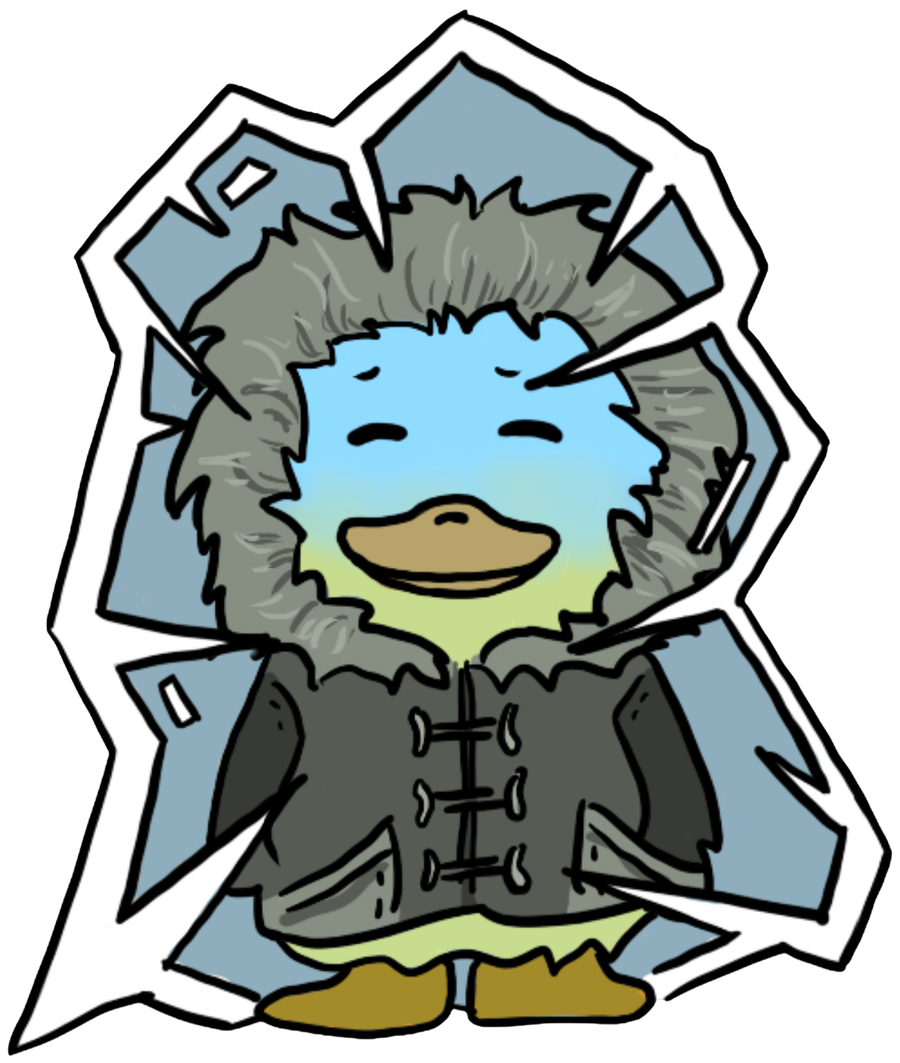
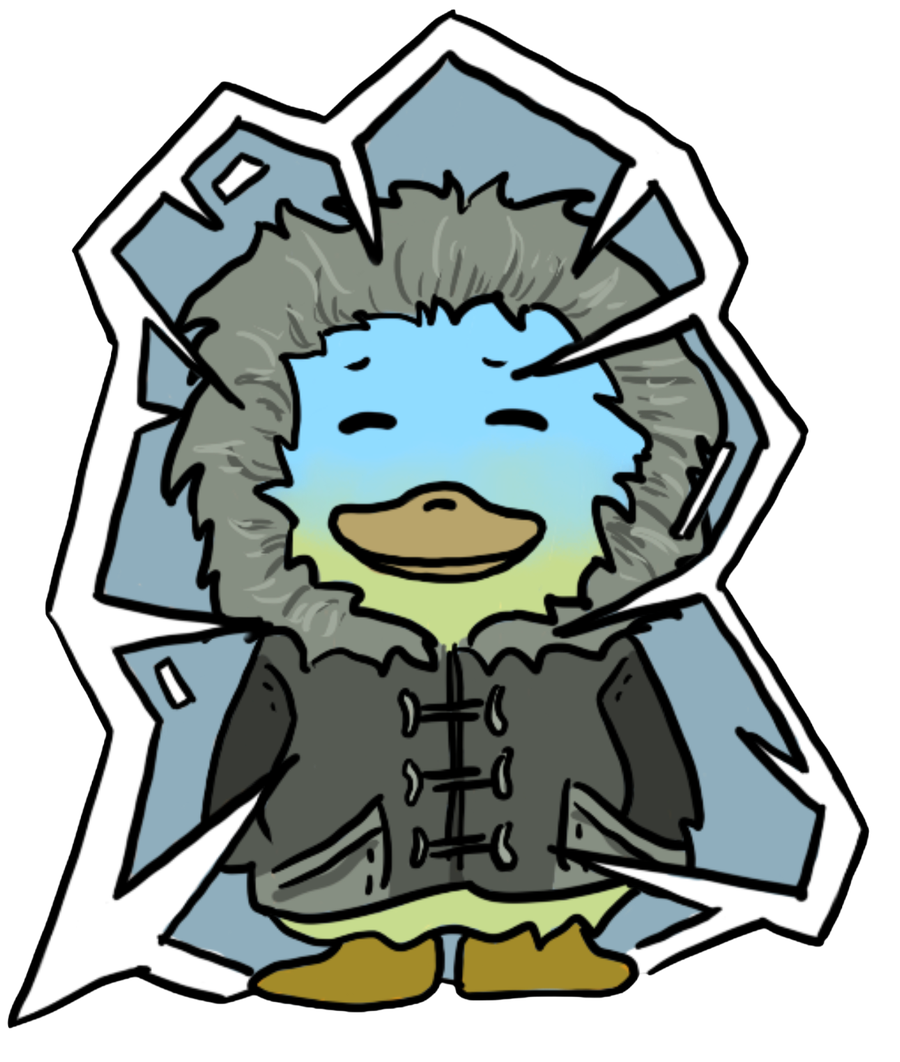
Add ducks for 70-100°F and a rain duck
Every 5°F band now has its own duck, and the umbrella duck shows
whenever it's raining. Web copies are regenerated from the source art
in assets/bbs/ with a crop box wide enough for the umbrella.

diff --git a/ducks.js b/ducks.js
@@ -1,10 +1,11 @@
 // One duck per 5°F band, 0°F through 100°F. Each band covers its starting
 // degree up to (not including) the next one: 55 means 55–59.9°F.
-// Below 0 uses the 0 duck; 100 and above uses the 100 duck.
+// Below 0 uses the 0–5 duck; 95 and above uses the 95–100 duck.
 //
-// `img: null` means that band hasn't been drawn yet. It borrows the nearest
-// drawn duck below it. To add one, save a transparent PNG as
-// assets/ducks/duck-<band>.png and set its `img`.
+// When it's raining, the rain duck shows instead, whatever the temperature.
+//
+// Source art lives in assets/bbs/ (named like 55-60.png); the files here in
+// assets/ducks/ are the cropped, resized web copies (see README).
 
 const duck = (band) => `assets/ducks/duck-${band}.png`;
 
@@ -23,18 +24,23 @@ const DUCKS = {
   55:  { img: duck(55), advice: "beanie + a light scarf" },
   60:  { img: duck(60), advice: "trench coat weather" },
   65:  { img: duck(65), advice: "light jacket's plenty" },
-  70:  { img: null, advice: "t-shirt weather :)" },
-  75:  { img: null, advice: "perfect day for a walk" },
-  80:  { img: null, advice: "shorts & sunnies!" },
-  85:  { img: null, advice: "sunscreen, friend" },
-  90:  { img: null, advice: "drink lots of water!" },
-  95:  { img: null, advice: "find some shade" },
-  100: { img: null, advice: "too hot. pond time." },
+  70:  { img: duck(70), advice: "cardigan + a cute bow" },
+  75:  { img: duck(75), advice: "overalls + sunnies!" },
+  80:  { img: duck(80), advice: "sun hat & breezy clothes" },
+  85:  { img: duck(85), advice: "bandana + shorts!" },
+  90:  { img: duck(90), advice: "tank top. hydrate!" },
+  95:  { img: duck(95), advice: "too hot for a shirt!" },
 };
 
-function duckForTemp(tempF) {
-  const band = Math.min(100, Math.max(0, Math.floor(tempF / 5) * 5));
-  let drawn = band;
-  while (drawn > 0 && !DUCKS[drawn].img) drawn -= 5;
-  return { band, advice: DUCKS[band].advice, img: DUCKS[drawn].img };
+const RAIN_DUCK = { img: "assets/ducks/duck-rain.png", advice: "grab an umbrella!" };
+
+// WMO weather codes: drizzle, rain (incl. freezing), rain showers, thunderstorms.
+function isRaining(code) {
+  return (code >= 51 && code <= 67) || (code >= 80 && code <= 82) || code >= 95;
+}
+
+function pickDuck(tempF, weatherCode) {
+  if (isRaining(weatherCode)) return { key: "rain", ...RAIN_DUCK };
+  const band = Math.min(95, Math.max(0, Math.floor(tempF / 5) * 5));
+  return { key: band, ...DUCKS[band] };
 }

diff --git a/app.js b/app.js
@@ -18,7 +18,7 @@ const state = {
   place: store.get("dw.place") || DEFAULT_PLACE,
   weather: null,
   aqi: null,
-  duckBand: null,
+  duckKey: null,
 };
 
 /* ---------- icons ---------- */
@@ -200,7 +200,7 @@ function render() {
   $("hi").textContent = toUnit(daily.temperature_2m_max[0]);
   $("lo").textContent = toUnit(daily.temperature_2m_min[0]);
   $("date").textContent = `${MONTHS[now.m - 1]} ${now.day}`;
-  renderDuck(current.temperature_2m);
+  renderDuck(current.temperature_2m, current.weather_code);
 
   // cards
   renderDays(daily);
@@ -228,14 +228,14 @@ function render() {
   renderAlerts();
 }
 
-function renderDuck(tempF) {
-  const duck = duckForTemp(tempF);
+function renderDuck(tempF, weatherCode) {
+  const duck = pickDuck(tempF, weatherCode);
   const img = $("duck");
   const bubble = $("advice");
   bubble.textContent = duck.advice;
-  img.alt = `The weather duck, dressed for ${Math.round(tempF)}°F`;
-  if (duck.band === state.duckBand) return;
-  state.duckBand = duck.band;
+  img.alt = duck.key === "rain" ? "The weather duck under an umbrella" : `The weather duck, dressed for ${Math.round(tempF)}°F`;
+  if (duck.key === state.duckKey) return;
+  state.duckKey = duck.key;
   img.src = duck.img;
   // replay entrance animations
   for (const el of [img, bubble]) {

diff --git a/index.html b/index.html
@@ -45,7 +45,7 @@
       <section class="hero">
         <div class="duck-side">
           <div class="bubble" id="advice">wear a hoodie!</div>
-          <img class="duck" id="duck" alt="The weather duck" width="900" height="1063" />
+          <img class="duck" id="duck" alt="The weather duck" width="900" height="1062" />
           <p class="dateline"><span>today</span><span id="date">—</span></p>
         </div>
         <div class="now">

diff --git a/README.md b/README.md
@@ -10,15 +10,19 @@ python3 -m http.server 8642
 
 Then open http://localhost:8642. Use a local server rather than opening the file directly, because the browser only allows location access on `localhost` or HTTPS.
 
-## Adding ducks
+## Ducks
 
-Each 5°F band has its own duck: `assets/ducks/duck-55.png` shows for 55–59.9°F. Bands without a drawing yet borrow the nearest duck below them.
+Each 5°F band has its own duck: `assets/ducks/duck-55.png` shows for 55–59.9°F. When it's raining, `duck-rain.png` shows instead. Speech-bubble text for each duck is in `ducks.js`.
 
-1. Export the duck as a transparent PNG on the same 1640×2360 canvas as the others.
-2. Crop and resize it to match the existing ducks (originals in `~/Downloads/duckweather NEW/`, named like `70-75.png`):
-   ```sh
-   python3 -c "from PIL import Image; Image.open('70-75.png').convert('RGBA').crop((140,263,1427,1783)).resize((900,1063), Image.LANCZOS).save('assets/ducks/duck-70.png', optimize=True)"
-   ```
-3. In `ducks.js`, change that band's `img: null` to `img: duck(70)`. You can also change its speech-bubble `advice` there.
+The full-size source art lives in `assets/bbs/` (named like `55-60.png` and `rain.png`, all on the same 1640×2360 canvas). It's kept out of git. To regenerate the web copies after changing a drawing:
+
+```sh
+python3 -c "
+from PIL import Image
+for b in range(0, 100, 5):
+    Image.open(f'assets/bbs/{b}-{b+5}.png').convert('RGBA').crop((140,263,1461,1822)).resize((900,1062), Image.LANCZOS).save(f'assets/ducks/duck-{b}.png', optimize=True)
+Image.open('assets/bbs/rain.png').convert('RGBA').crop((140,263,1461,1822)).resize((900,1062), Image.LANCZOS).save('assets/ducks/duck-rain.png', optimize=True)
+"
+```
 
 Data comes from [Open-Meteo](https://open-meteo.com/) (forecast and air quality, no API key needed) and BigDataCloud (place names for "use my location").
